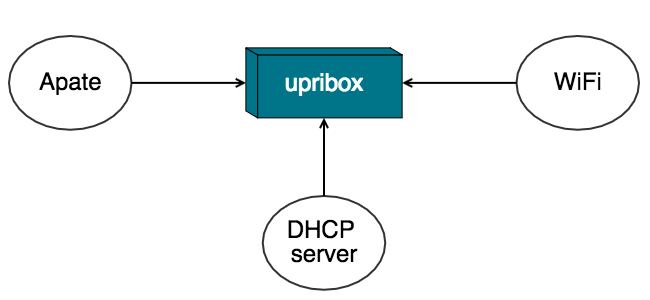
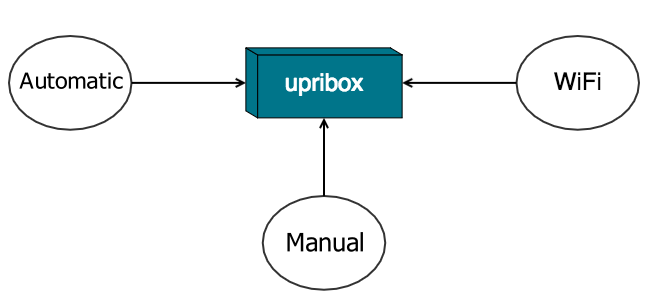
- merged documentation changes from master v1 (#102) - updated documentation

Changed region(s): [[0.4308, 0.72, 0.5846, 0.87], [0.0308, 0.24, 0.1846, 0.3]]

diff --git a/docs/source/integration.rst b/docs/source/integration.rst
@@ -4,9 +4,9 @@
 Modes
 #####
 
-To integrate the upribox in your home network and access the web interface via the URI `http://upri.box <http://upri.box/>` we implemented three different ways. This decision is motivated by the nature of these access modes. The most comfortable mode for the user, Apate, sometimes does not work with more complex home networks or specific routers we don't have control over. To give you an alternative your upribox can be accessed by configuring your upribox as the DHCP server on the network which requires a small configuration on your router at home. The third mode is to connect directly to the upribox WiFi and access the web interface from the connected device.
+To integrate the upribox in your home network and access the web interface via the URI `http://upri.box <http://upri.box/>`_ or `https://upri.box:4300 <https://upri.box:4300/>`_ we implemented three different ways. This decision is motivated by the nature of these access modes. The most comfortable mode for the user, Automatic, sometimes does not work with more complex home networks or specific routers we don't have control over. To give you an alternative your upribox can be accessed by configuring your upribox as the DHCP server on the network which requires a small configuration on your router at home. The third mode is to connect directly to the upribox WiFi and access the web interface from the connected device.
 
-The easiest way to configure Apate or DHCP server mode is by using the WiFi mode and connecting a device to the upribox Silent WiFi. You then can choose the mode that best fits your needs and expertise and change it whenever you like in the admin section of the upribox web interface.
+The easiest way to configure *Automatic* or *Manual* mode is by using the WiFi mode and connecting a device to the upribox WiFi. You then can choose the mode that best fits your needs and expertise and change it whenever you like in the admin section of the upribox web interface.
 In the following the three modes are described in more detail:
 
 .. figure:: _static/modes.png
@@ -16,22 +16,22 @@ In the following the three modes are described in more detail:
     :alt: The three different modes
     :figclass: align-center
 
-    The three different modes to access your upribox: Apate, DHCP server and WiFi
+    The three different modes to access your upribox: *Automatic*, *Manual* and *Only over WiFi "upribox"*
 
 .. _apate:
 
-*****
-Apate
-*****
+*********
+Automatic
+*********
 
-After activating Apate you don't have to configure anything else. Ads and trackers on all your devices will be blocked.
+After activating Automatic mode you don't have to configure anything else. Ads and trackers on all your devices will be blocked.
 
-Apate is an ARP spoofing daemon which means that the upribox will trick all devices on your network into thinking that it is the real recipient of the packets. Your phone, laptop or any other device then sends the traffic over the upribox, which acts as a Man-In-The-Middle and forwards the packets. Before returning requested websites to your device the upribox will always remove advertisements and trackers for you.
-Some routers can detect ARP spoofing and treat it as an attack. In this case Apate won't work on your network. We therefore recommend to test Apate by activating it and trying to access the internet with another device (e.g. your smart phone).
+Apate, which is used by the Automatic mode, is an ARP spoofing daemon which means that the upribox will trick all devices on your network into thinking that it is the real recipient of the packets. Your phone, laptop or any other device then sends the traffic over the upribox, which acts as a Man-In-The-Middle and forwards the packets. Before returning requested websites to your device the upribox will always remove advertisements and trackers for you.
+Some routers can detect ARP spoofing and treat it as an attack. In this case Apate won't work on your network. We therefore recommend to test the Automatic mode by activating it and trying to access the internet with another device (e.g. your smart phone).
 
-***********
-DHCP Server
-***********
+******
+Manual
+******
 
 By setting up your upribox as the DHCP server of your network it will act as the distributor of IP addresses for all other devices. Additionally your upribox is again Man-In-The-Middle and can filter ads and trackers from your traffic.
 To activate this mode you have to make some adjustments on your upribox and your router:
@@ -40,14 +40,14 @@ To activate this mode you have to make some adjustments on your upribox and your
 * Activate the DHCP server mode in the admin section of the upribox web interface.
 * Up to this point your home router had the role of the DHCP server. But now there's a new sheriff in town. Go to the web interface of your home router and deactivate the DHCP server.
 
-*********
-WiFi Mode
-*********
+************************
+Only over WiFi "upribox"
+************************
 
-If your router does not support Apate or you don't want to change any settings on your router you can still access your upribox web interface by connecting to one of the WiFis (Silent or Ninja). Please note that this way only devices directly connected to the WiFis will benefit from the upribox' ad-blocking mechanisms.
+If your router does not support the Automatic mode or you don't want to change any settings on your router you can still access your upribox web interface by connecting to the upribox WiFi. Please note that this way only devices directly connected to the WiFi will benefit from the upribox' ad-blocking mechanisms.
 
 ****************
 What about IPv6?
 ****************
 
-If you are using IPv6 on your home network we recommend using the WiFi mode or alternatively setting up an additional IPv4 only WiFi router which is connected to your upribox in Apate or DHCP server mode. To use the latter please don't forget to deactivate the DHCP server on the new router.
+If you are using IPv6 on your home network we recommend using the WiFi mode or alternatively setting up an additional IPv4 only WiFi router which is connected to your upribox in Automatic or Manual mode. To use the latter please don't forget to deactivate the DHCP server on the new router.

diff --git a/docs/source/intro.rst b/docs/source/intro.rst
@@ -23,40 +23,24 @@ will take a couple of minutes).
 Hardware requirements
 ---------------------
 
-In the following you will find a list of required (and tested) hardware for the upribox software. On the Raspberry Pi 2 make
-sure that you use a compatible USB WiFi dongle!
+In the following you will find a list of required (and tested) hardware for the upribox software.
 
 Table of recommended hardware
 ^^^^^^^^^^^^^^^^^^^^^^^^^^^^^
 
-.. note::
-   Since upribox v0.5 we support the Pi3 natively, so no
-   additional WiFi dongle is required. The Pi3 WiFi however
-   supports only one active Hotspot. You cannot activate the
-   **Ninja WiFi** on the Pi3 without an additional TL-WN722N v1 WiFi dongle.
-
-+--------------+------------------------+---------------------------+
-|              | Raspberry Pi 3 [#f1]_  | Raspberry Pi 2 [#f2]_     |
-+==============+========================+===========================+
-| SD Card      |      microSDHC Class 10 (min. 4GB) [#f3]_          |
-+--------------+------------------------+---------------------------+
-| Power Supply |      Micro USB 5V/2A [#f4]_                        |
-+--------------+------------------------+---------------------------+
-| WiFi         |       onboard          | TL-WN722N **v1** [#f5]_   |
-+--------------+------------------------+---------------------------+
-
-.. warning::
-   Please note that version 2 of the TL-WN722N WiFi dongle uses a different WiFi chipset and is not supported.
-
-The upribox software works with Raspberry Pi 1 as well, but the
-performance for ad-blocking is considerable worse.
++--------------+------------------------------------------------+
+|              |      Raspberry Pi 3 [#f1]_                     |
++==============+================================================+
+| SD Card      |      microSDHC Class 10 (min. 4GB) [#f3]_      |
++--------------+------------------------------------------------+
+| Power Supply |      Micro USB 5V/2A [#f4]_                    |
++--------------+------------------------------------------------+
+| WiFi         |      onboard                                   |
++--------------+------------------------------------------------+
 
 .. [#f1] Raspberry Pi 3 `[Element14] <https://www.element14.com/community/community/raspberry-pi/raspberrypi3>`__  `[Amazon.com] <https://www.amazon.com/Raspberry-Pi-RASP-PI-3-Model-Motherboard/dp/B01CD5VC92>`__
-.. [#f2] Raspberry Pi 2 `[Element14] <http://element14.com/raspberrypi2>`__ `[Adafruit] <https://www.adafruit.com/products/2358>`__
 .. [#f3] Sandisk SDHC 8GB `[Amazon.com] <https://www.amazon.com/SanDisk-MicroSDHC-Standard-Packaging-SDSDQUAN-008G-G4A/dp/B00M55C0VU/>`__
 .. [#f4] Power Supply `[Amazon.com] <https://www.amazon.com/Kootek-Universal-Charger-Raspberry-External/dp/B00GWDLJGS>`__ `[Adafruit] <https://www.adafruit.com/products/1995>`__
-.. [#f5] TL-WN722N Wireless USB adapter `[Amazon.com] <https://www.amazon.com/TP-LINK-TL-WN722N-Wireless-Adapter-External/dp/B002SZEOLG>`__
-
 
 User manual
 ===========
@@ -66,9 +50,12 @@ User manual
 Web Interface
 -------------
 
-Once you are connected to either of the upribox WiFi networks (Silent or
-Ninja) you can access the upribox web interface via the following URI:
-**http://upri.box <http://upri.box/>**. (see :ref:`integration`)
+Once you are connected to the upribox WiFi network you can access the upribox web interface via one of the following URIs:
+
+- `http://upri.box <http://upri.box/>`_
+- `https://upri.box:4300 <https://upri.box:4300/>`_
+
+(see :ref:`integration`)
 
 Default passwords
 -----------------
@@ -78,21 +65,21 @@ If you used the latest community upribox image for setting up your own privacy b
 ===============================  ============   ======================
 Login                            User           Default Password
 ===============================  ============   ======================
-Wifi (SSID: upribox)             -              changeme
+Wifi (SSID: upribox)             \-              changeme
 Web Interface / SSH              upri           changethedefaults!
 ===============================  ============   ======================
 
 
 It is important that you change the passwords upon the first login in the admin section of the web interface.
-New passwords have to be at least 8 characters long containing lower-case, upper-case, numbers and special characters.
+New passwords should have at least 8 characters containing lower-case, upper-case, numbers and special characters.
 
-*******
+If you bought a pre-assembled upribox from our online store,
+the SSH password of your upribox is configured to be the equal to your webinterface password.
+
 Updates
-*******
+-------
 
-The upribox performs an auto-update every **four hours**. This includes:
-
- * Blocking rules for privoxy and DNS
- * Software updates via ansible + updates from github
+The upribox performs an auto-update every **hour**, which includes software updates via ansible and updates from github.
+The blocking rules for privoxy and DNS are updated every **four hours**.
 
 Please note that this process overwrites manual changes to configuration files. To conduct persistent manual changes you have to use *custom facts* (see :ref:`customization`).

diff --git a/docs/source/features.rst b/docs/source/features.rst
@@ -36,8 +36,8 @@ information that my or may not be appropriate.
 Ninja Mode
 **********
 
-By activating Ninja mode the upribox will create another network (on Raspberry Pi 3 only with an additional WiFi dongle).
-Connected devices benefit from the same ad- and tracker blocking mechanisms as in the Silent mode but additionally the traffic will be anonymized.
+The Ninja Mode can be activated inside the upribox webinterface for specific devices.
+Those devices benefit from the same ad- and tracker blocking mechanisms as in the Silent mode but additionally the traffic will be anonymized.
 
 The upribox Ninja mode uses the Tor anonymity network to hinder tracking of
 your internet usage. For example, your internet provider will not be able to
@@ -50,6 +50,17 @@ For the best protection of your anonymity we recommend the usage of the Tor Brow
 `macOS <https://www.torproject.org/download/download-easy.html#mac>`__) or alternatively
 `Tails <https://tails.boum.org/>`__. If you cannot use the Tor
 Browser, activate and use the upribox Ninja mode.
+
+.. _nomode:
+
+**********
+No Mode
+**********
+If you are experiencing issues with a specific device in either *Silent Mode* or *Ninja Mode*,
+you can disable the upribox functions for this device inside the upribox webinterface.
+
+Traffic of devices, which are configured to use *No Mode*, is not filtered by the upribox, therefore
+advertisements are not filtered and your activities are not secured.
 
 .. _vpn:
 

diff --git a/docs/source/development.rst b/docs/source/development.rst
@@ -3,7 +3,7 @@
 Development
 ===========
 
-The current upribox image is based on Raspbian [#Raspbian]_ Jessie
+The current upribox image is based on Raspbian [#Raspbian]_ Stretch
 Lite and customized with Ansible (see :ref:`architecture`). The
 Raspbian image can be staged into *production* or *development* mode.
 
@@ -20,7 +20,7 @@ to setup a development environment for the upribox software.
 Prerequisites [on your development machine]
 ^^^^^^^^^^^^^^^^^^^^^^^^^^^^^^^^^^^^^^^^^^^
 
--  install *ansible* 1.9.6 (``sudo pip install ansible==1.9.6``) and
+-  install *ansible* 2.3.0 (``sudo pip install ansible==2.3.0``) and
    *git*
 -  install requirements for the *ansible* modules (``sudo apt-get install python-pip python-dev libffi-dev libssl-dev libxml2-dev libxslt1-dev libjpeg8-dev zlib1g-dev``)
 -  make sure to log into your Raspberry via SSH once because ansible

diff --git a/docs/source/customization.rst b/docs/source/customization.rst
@@ -96,13 +96,11 @@ Valid WiFi channels are numbers between 1 and 10. (see :ref:`upri-config`)
 de/activate WiFi
 ****************
 
-If you have ssh enabled you can connect to your upribox and deactivate both, Ninja and Silent WiFi:
+If you have ssh enabled you can connect to your upribox and deactivate the upribox WiFi:
 
 ::
 
     sudo upri-config.py enable_silent no
     sudo upri-config.py restart_silent
-    sudo upri-config.py enable_tor no
-    sudo upri-config.py restart_tor
 
-To activate them again replace "no" with "yes". If you activate Ninja WiFi, you have to activate Silent WiFi as well. (see :ref:`upri-config`)
+To activate it again replace "no" with "yes". (see :ref:`upri-config`)

diff --git a/docs/source/architecture.rst b/docs/source/architecture.rst
@@ -28,6 +28,7 @@ Base setup
 .. include:: modules/init.inc
 .. include:: modules/common.inc
 .. include:: modules/unattended_upgrades.inc
+.. include:: modules/upri-config.inc
 
 Networking
 ==========

diff --git a/docs/source/index.rst b/docs/source/index.rst
@@ -7,9 +7,9 @@ Getting Started
 
 .. include:: intro.rst
 
-*************
+#############
 Documentation
-*************
+#############
 
 .. toctree::
    :maxdepth: 3
